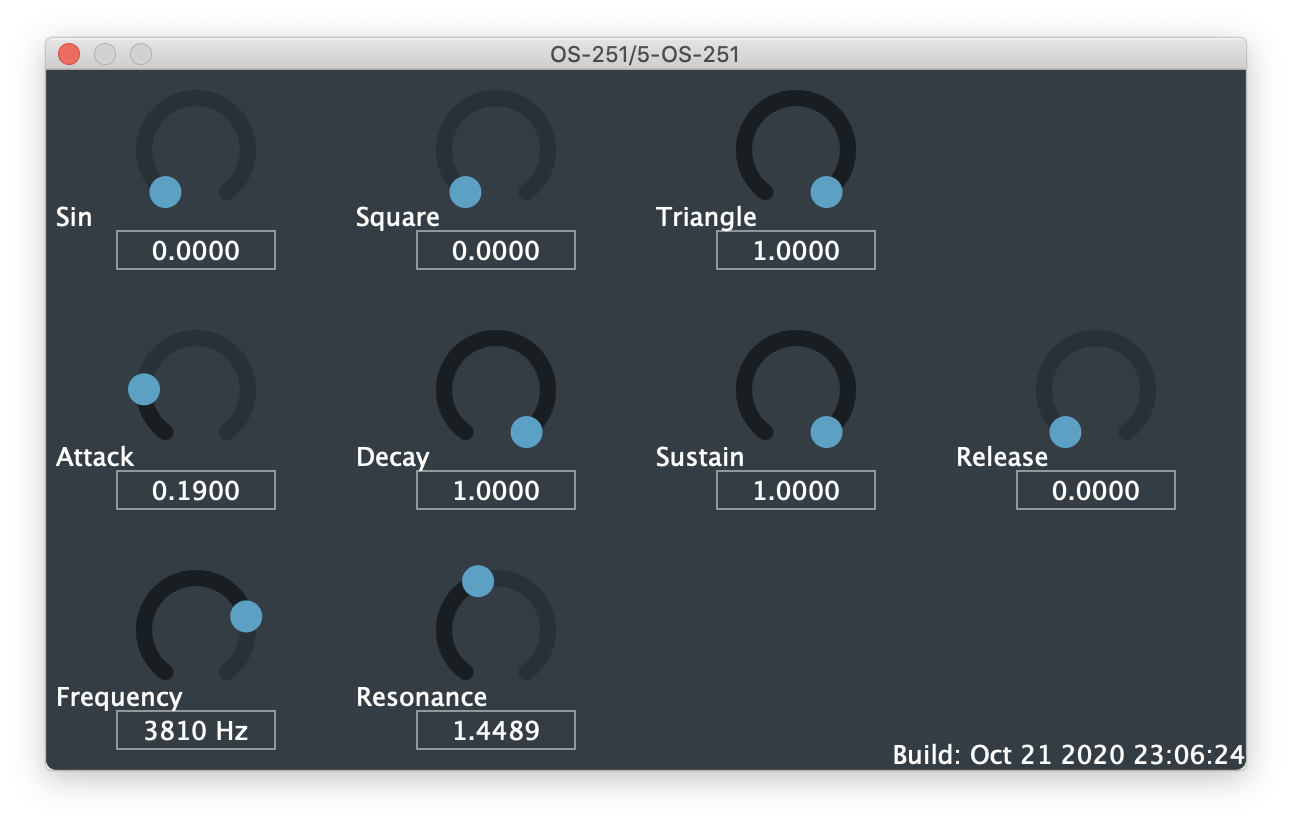
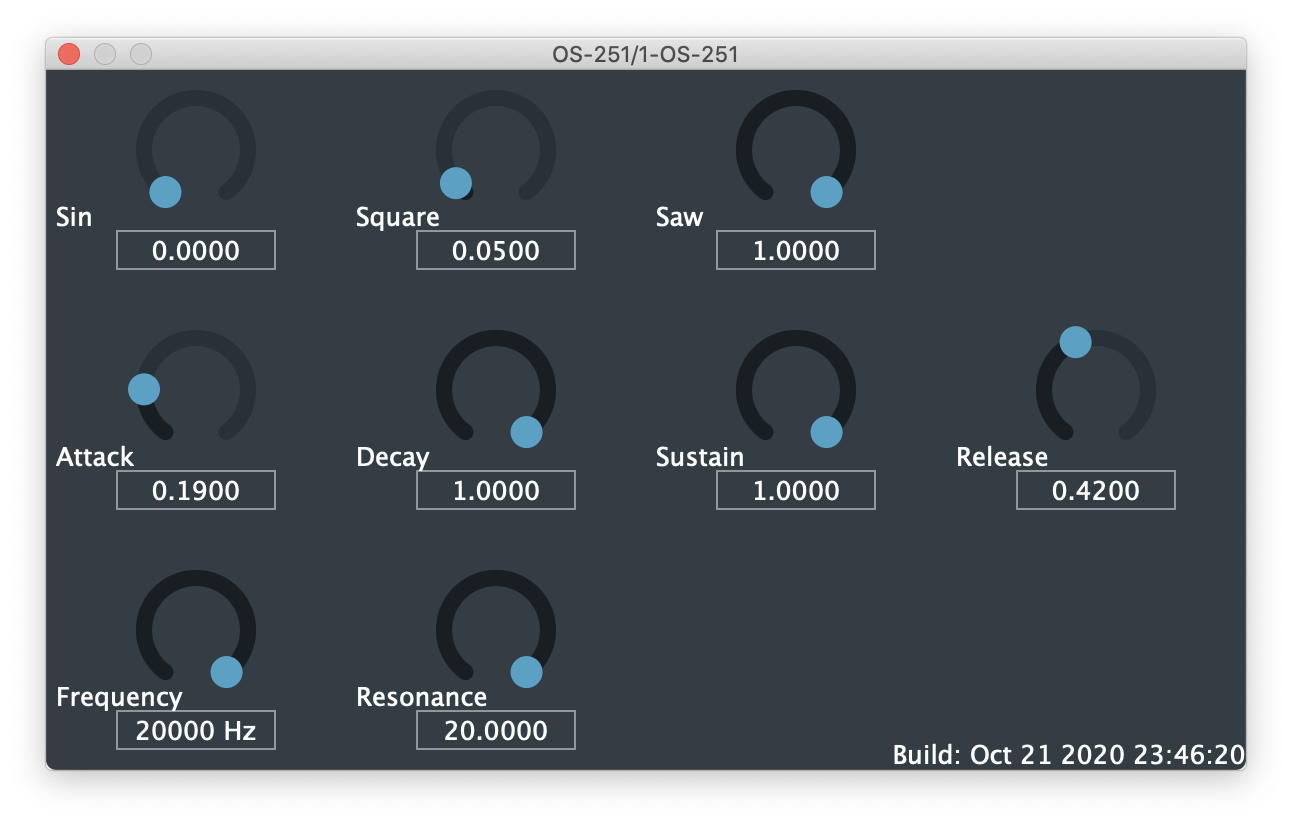
Fix waveform name

diff --git a/Source/SynthEngine.h b/Source/SynthEngine.h
@@ -43,14 +43,14 @@ public:
     {
         squareGain = _squareGain;
     }
-    float getTriangleGain() const
+    float getSawGain() const
     {
-        auto decibelGain = paramValToDecibel (*triangleGain);
+        auto decibelGain = paramValToDecibel (*sawGain);
         return decibelToLinear (decibelGain);
     }
-    void setTriangleGainPtr (const std::atomic<float>* _triangleGain)
+    void setSawGainPtr (const std::atomic<float>* _sawGain)
     {
-        triangleGain = _triangleGain;
+        sawGain = _sawGain;
     }
 
 private:
@@ -58,7 +58,7 @@ private:
     static constexpr float dynamicRange = 48.0;
     const std::atomic<float>* sinGain {};
     const std::atomic<float>* squareGain {};
-    const std::atomic<float>* triangleGain {};
+    const std::atomic<float>* sawGain {};
 
     // Convert parameter value (linear) to gain ([db])
     // in order to make UX better.
@@ -219,7 +219,7 @@ public:
         auto currentSample = 0.0;
         currentSample += sinWave (angle) * p->getSinGain();
         currentSample += squareWave (angle) * p->getSquareGain();
-        currentSample += triangleWave (angle) * p->getTriangleGain();
+        currentSample += sawWave (angle) * p->getSawGain();
         return currentSample;
     }
 
@@ -238,7 +238,7 @@ private:
         return angle < pi ? 1.0 : -1.0;
     }
 
-    static double triangleWave (double angle)
+    static double sawWave (double angle)
     {
         return std::min (2.0 * angle / (2.0 * pi), 2.0) - 1.0;
     }

diff --git a/Source/PluginProcessor.cpp b/Source/PluginProcessor.cpp
@@ -60,10 +60,10 @@ Os251AudioProcessor::Os251AudioProcessor()
     oscillatorParams->setSquareGainPtr (parameters.getRawParameterValue ("squareGain"));
     parameters.addParameterListener ("squareGain", this);
 
-    // Triangle gain
-    parameters.createAndAddParameter (std::make_unique<Parameter> ("triangleGain", "Triangle", "", nrange, 1.0f, valueToTextFunction, nullptr, true));
-    oscillatorParams->setTriangleGainPtr (parameters.getRawParameterValue ("triangleGain"));
-    parameters.addParameterListener ("triangleGain", this);
+    // Saw gain
+    parameters.createAndAddParameter (std::make_unique<Parameter> ("sawGain", "Saw", "", nrange, 1.0f, valueToTextFunction, nullptr, true));
+    oscillatorParams->setSawGainPtr (parameters.getRawParameterValue ("sawGain"));
+    parameters.addParameterListener ("sawGain", this);
 
     // Envelop parameters
     EnvelopeParams* const envelopeParams = synthParams.envelope();

diff --git a/Source/PluginEditor.h b/Source/PluginEditor.h
@@ -37,7 +37,7 @@ private:
     static constexpr int numCols = 4;
     template <class T>
     using SliderMatrix = std::array<std::array<T, numCols>, numRows>;
-    SliderMatrix<juce::String> paramIdList { { { "sinGain", "squareGain", "triangleGain", "" },
+    SliderMatrix<juce::String> paramIdList { { { "sinGain", "squareGain", "sawGain", "" },
                                                { "attack", "decay", "sustain", "release" },
                                                { "frequency", "resonance", "", "" } } };
     using ParamSliderPtr = std::unique_ptr<ParamSlider>;

diff --git a/Source/PluginEditor.cpp b/Source/PluginEditor.cpp
@@ -68,7 +68,7 @@ void Os251AudioProcessorEditor::resized()
         {
             if (sliderList[i][j])
             {
-                if (!deltaX || !deltaY)
+                if (! deltaX || ! deltaY)
                 {
                     // Initialize deltaX and deltaY if needed
                     deltaX = sliderList[i][j]->getWidth();

diff --git a/Source/ParamSlider.h b/Source/ParamSlider.h
@@ -26,7 +26,7 @@ public:
         addAndMakeVisible (slider);
         sliderAttachment = std::make_unique<SliderAttachment> (parameters, paramId, slider);
         addAndMakeVisible (label);
-        setSize(150, 120);
+        setSize (150, 120);
     }
     ParamSlider() = delete;
 
